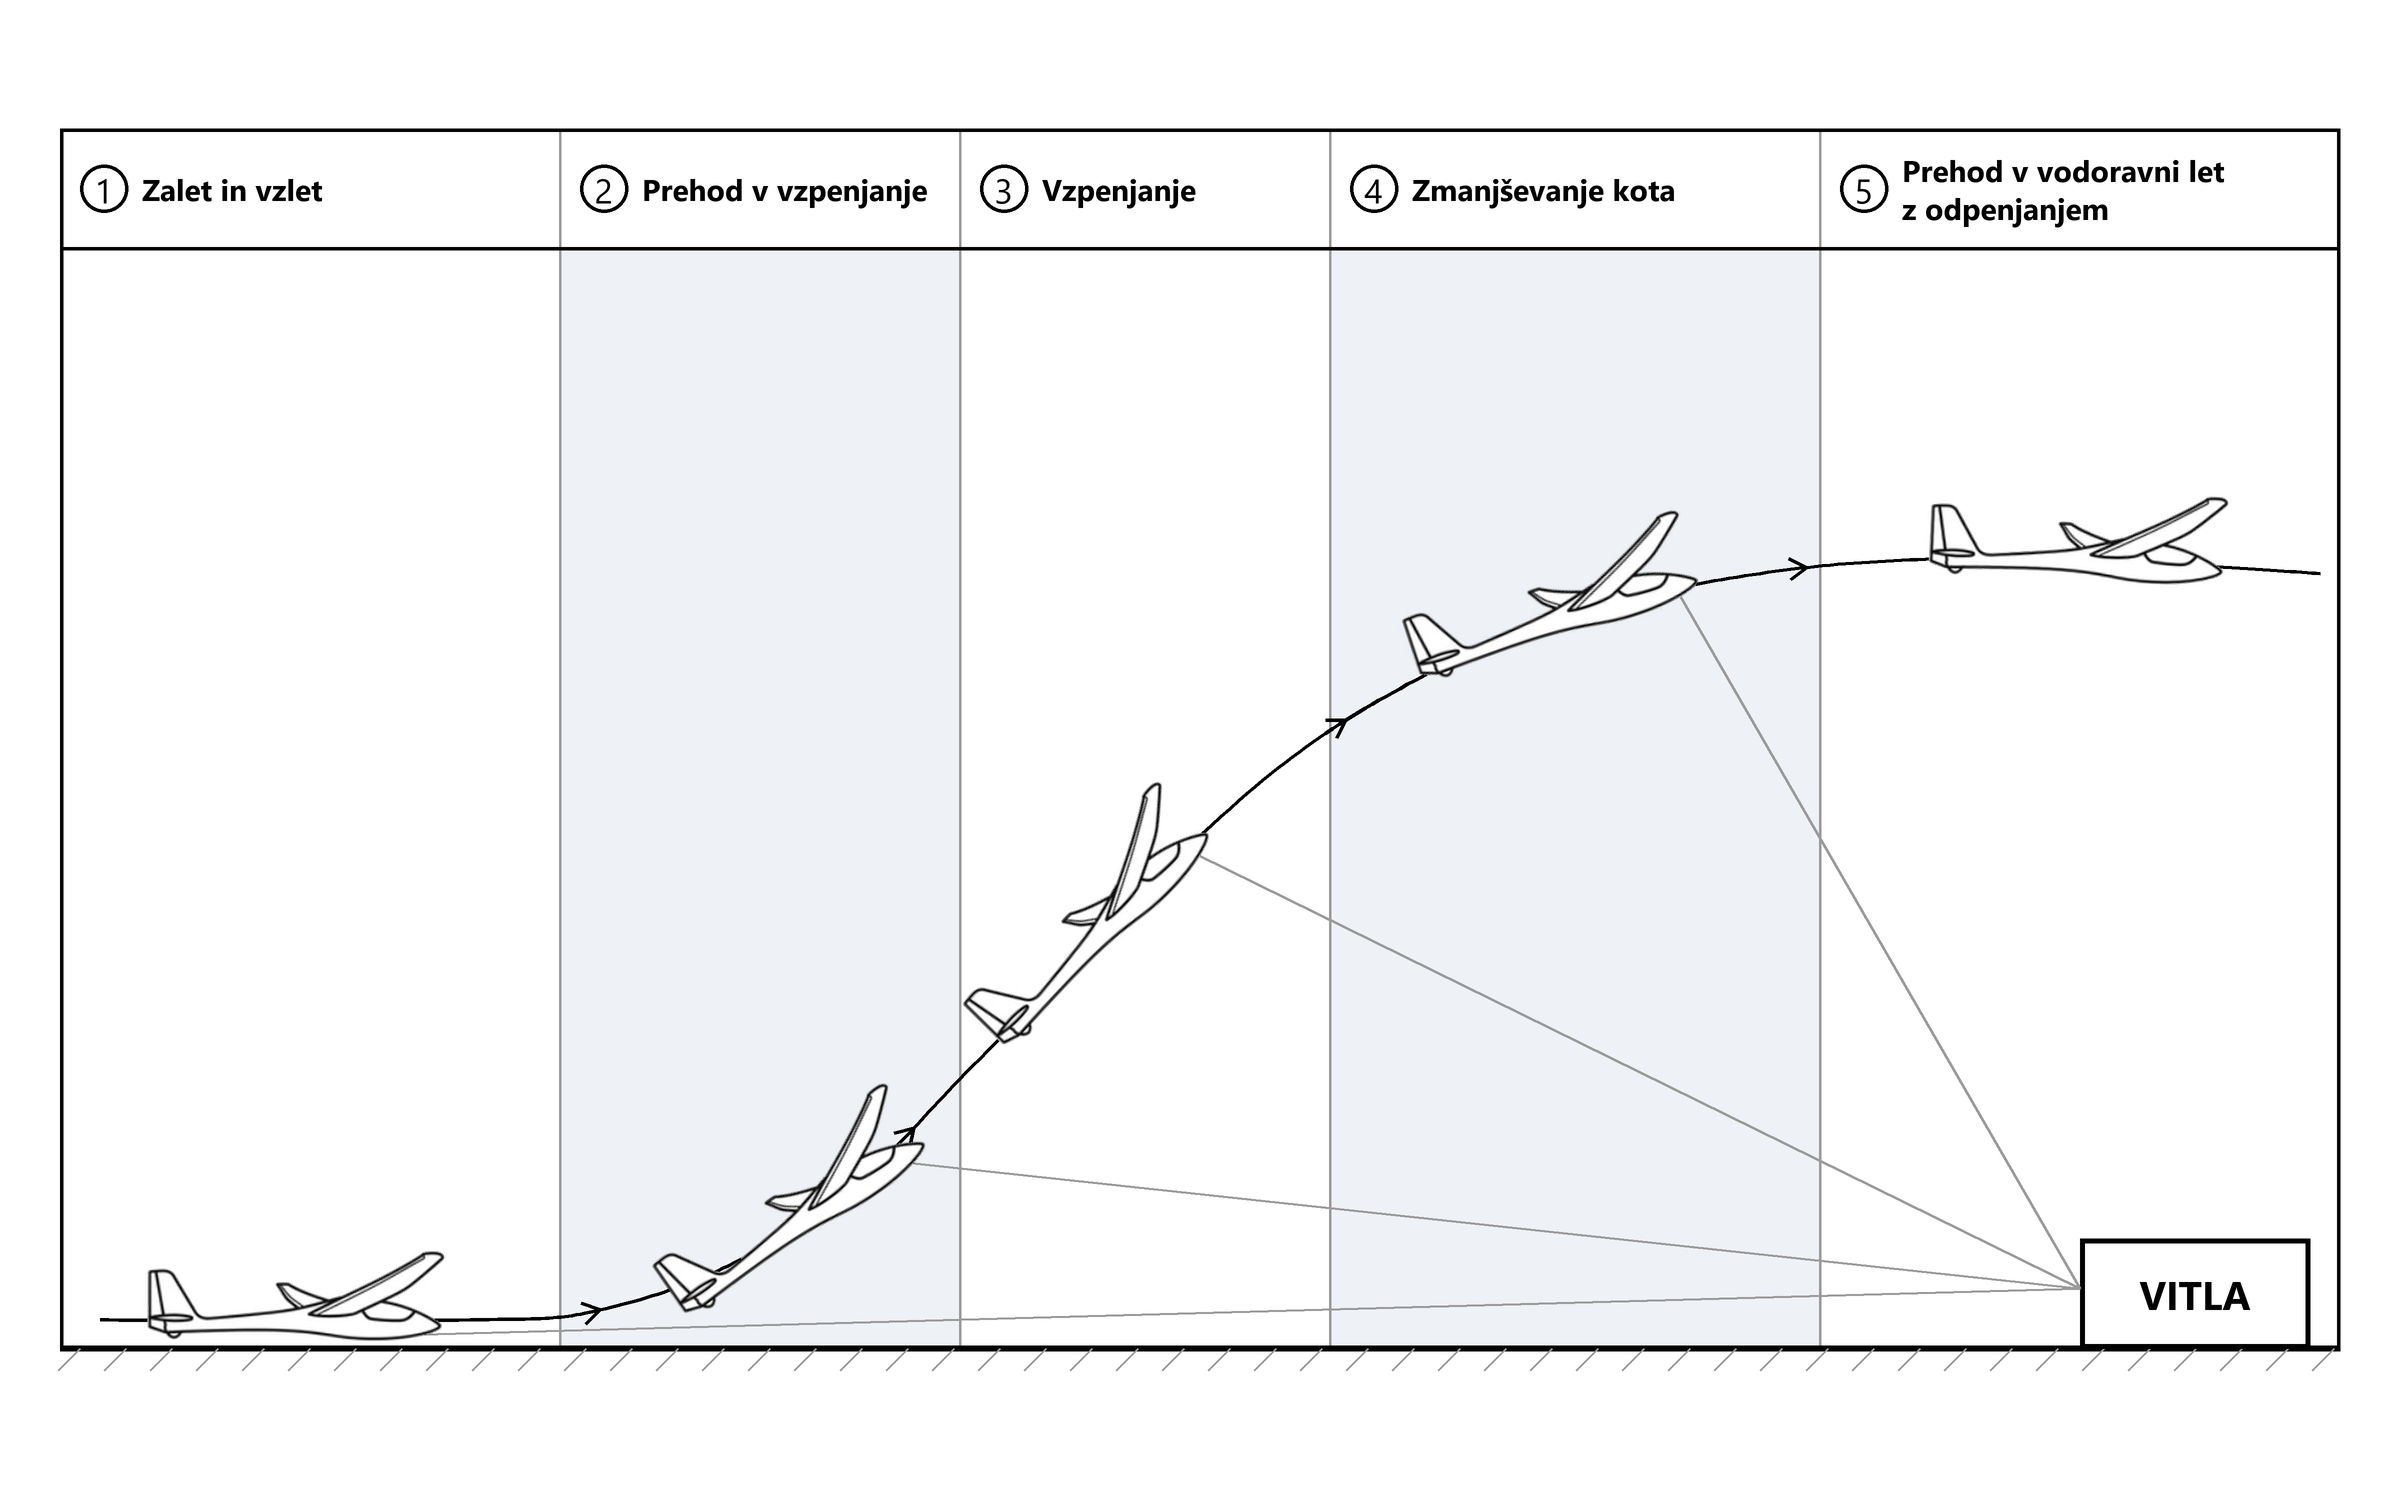
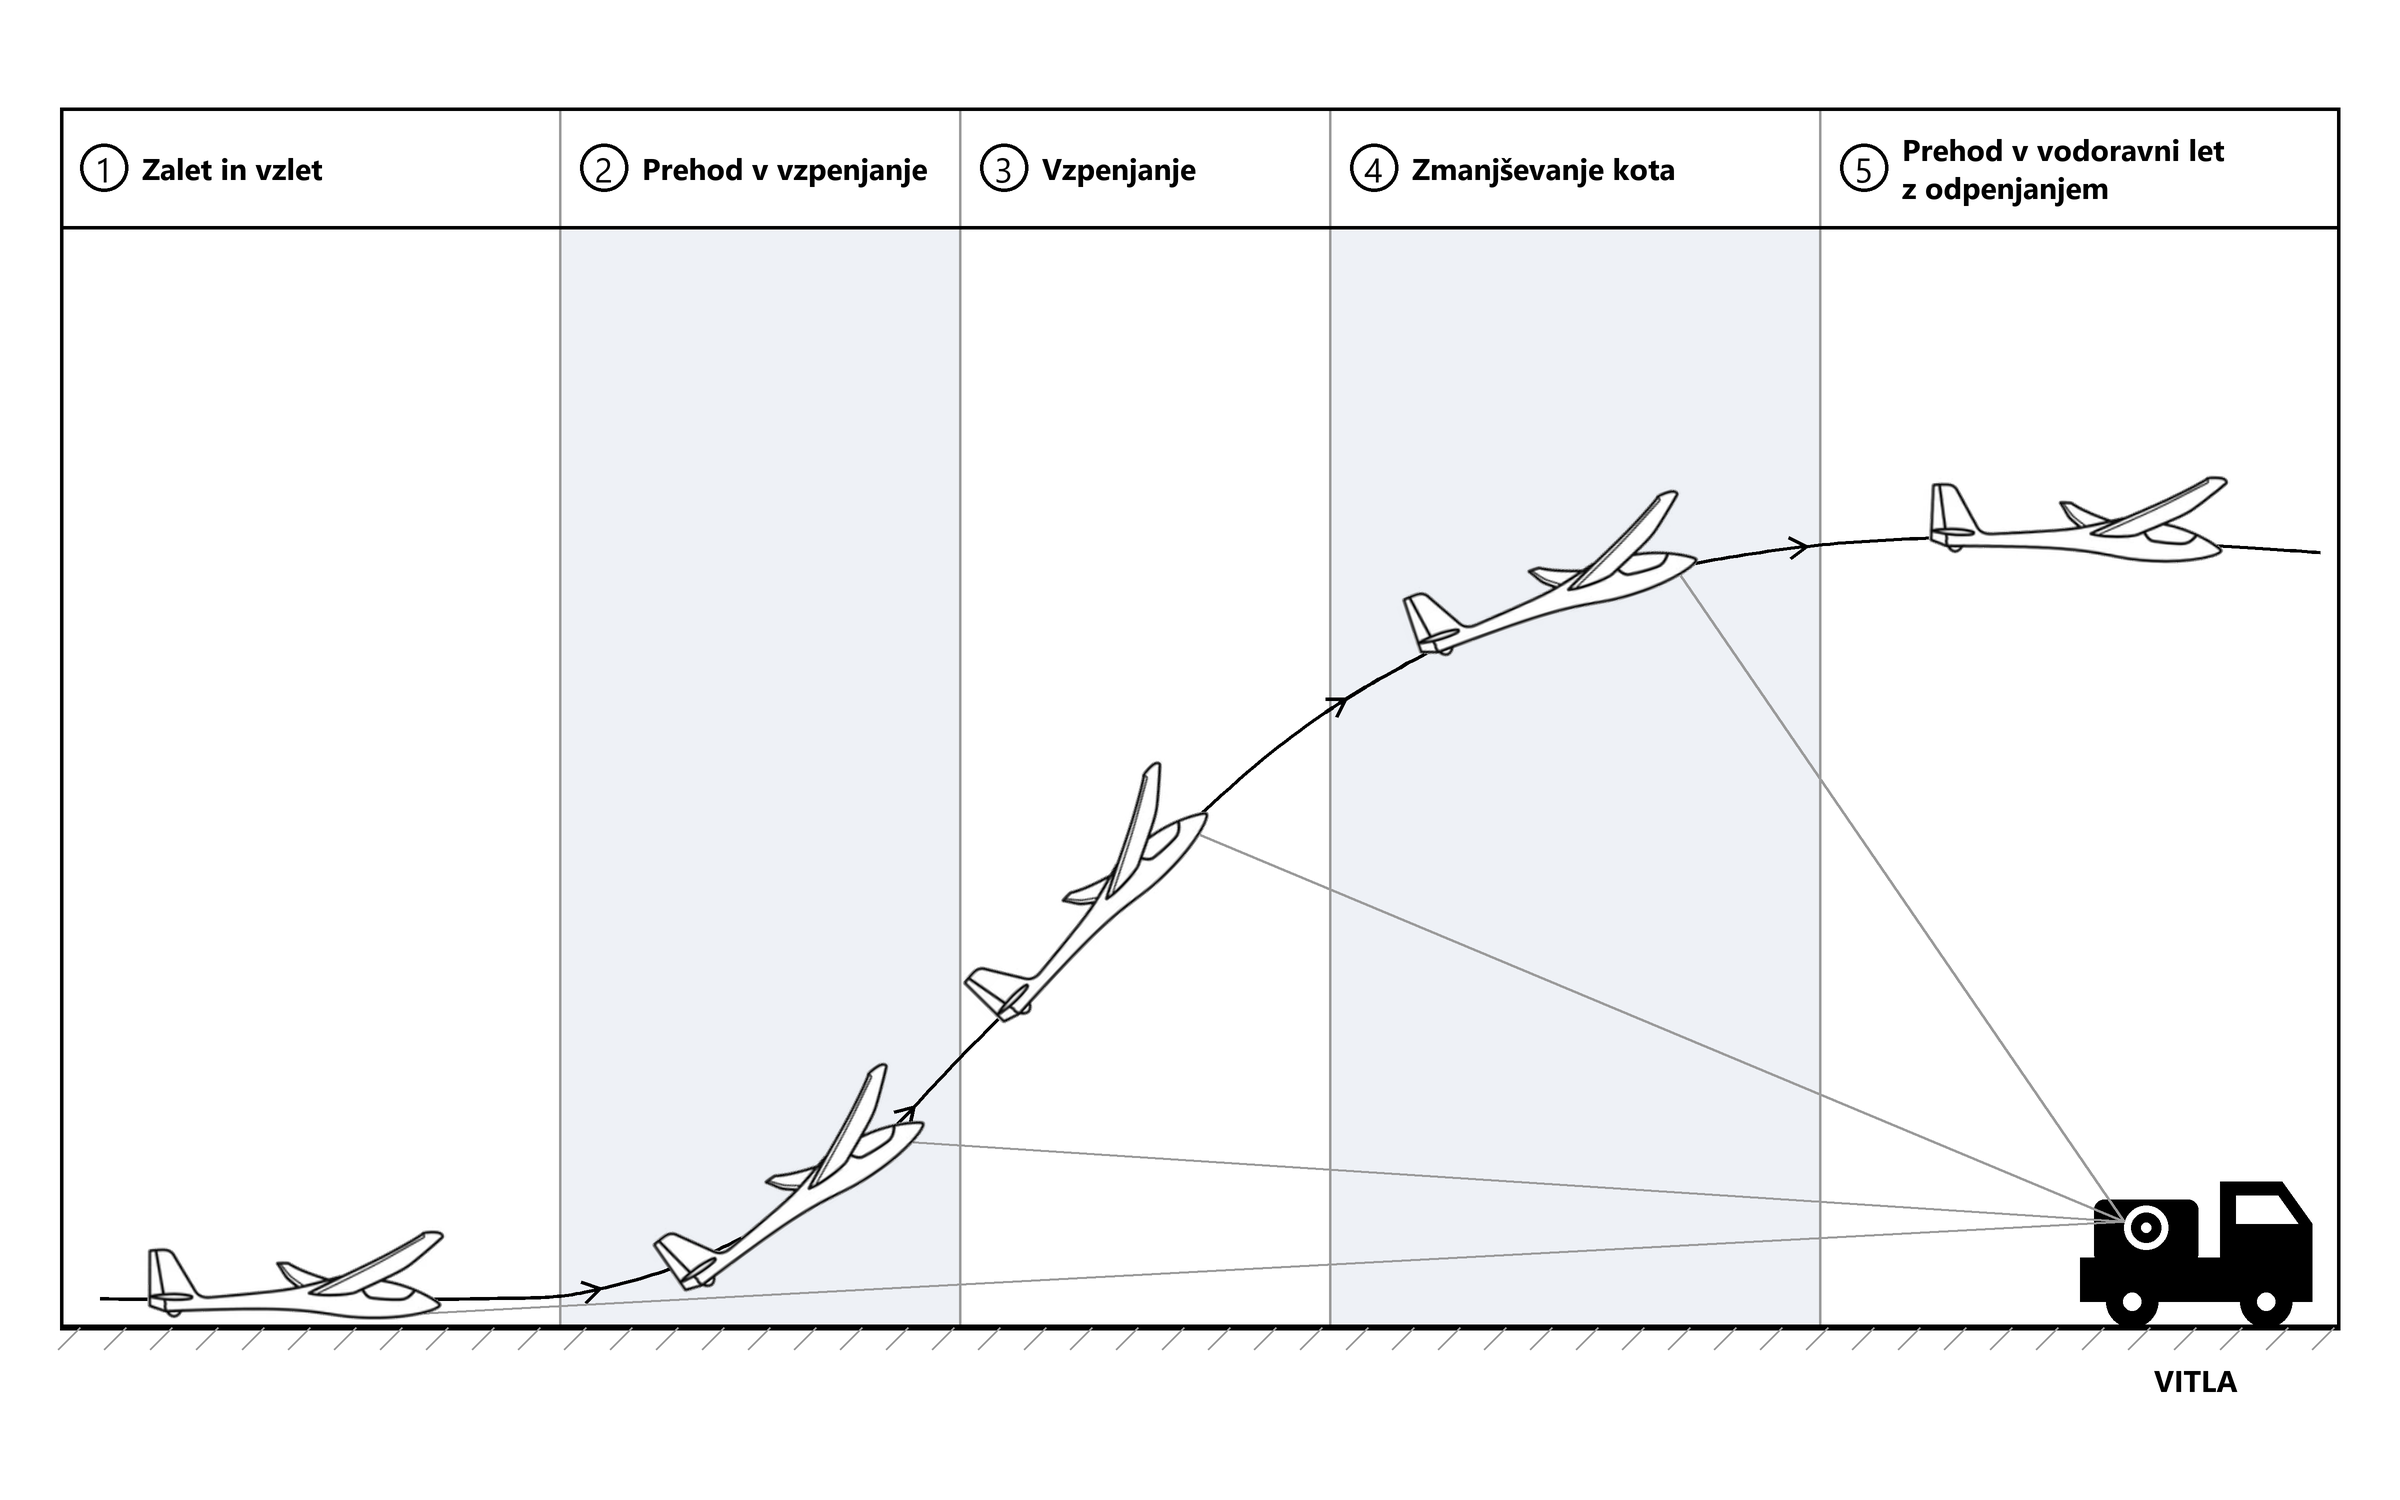
Vzlet z vitlom: vitla kot črn tovornjak
Aplikacija c7d38ce8652d, zgrajena iz VzgonApp 91ed4b5.

Claude-Session: https://claude.ai/code/session_01QP17DjrmuoKam9kEvmYkyF

diff --git a/app/sw.js b/app/sw.js
@@ -13,7 +13,7 @@
 // - Nova različica se namesti v ozadju in počaka. Aktivira se, ko uporabnik
 //   pritisne »Osveži« ali ko so vsa okna aplikacije zaprta.
 
-const VERSION = "80cfe3b2e5c3";
+const VERSION = "c7d38ce8652d";
 const CACHE = 'kopilot-' + VERSION;
 // [{ u: pot ali polni URL, h: zgoščena vsebina }]
 const FILES = [
@@ -79,7 +79,7 @@ const FILES = [
   },
   {
     "u": "assets/assets/content/sl/manual/winch_launch.png",
-    "h": "71be04bfcbaec69a"
+    "h": "9c9972c8d0427a12"
   },
   {
     "u": "assets/assets/content/sl/questions/10_air_law.json",
